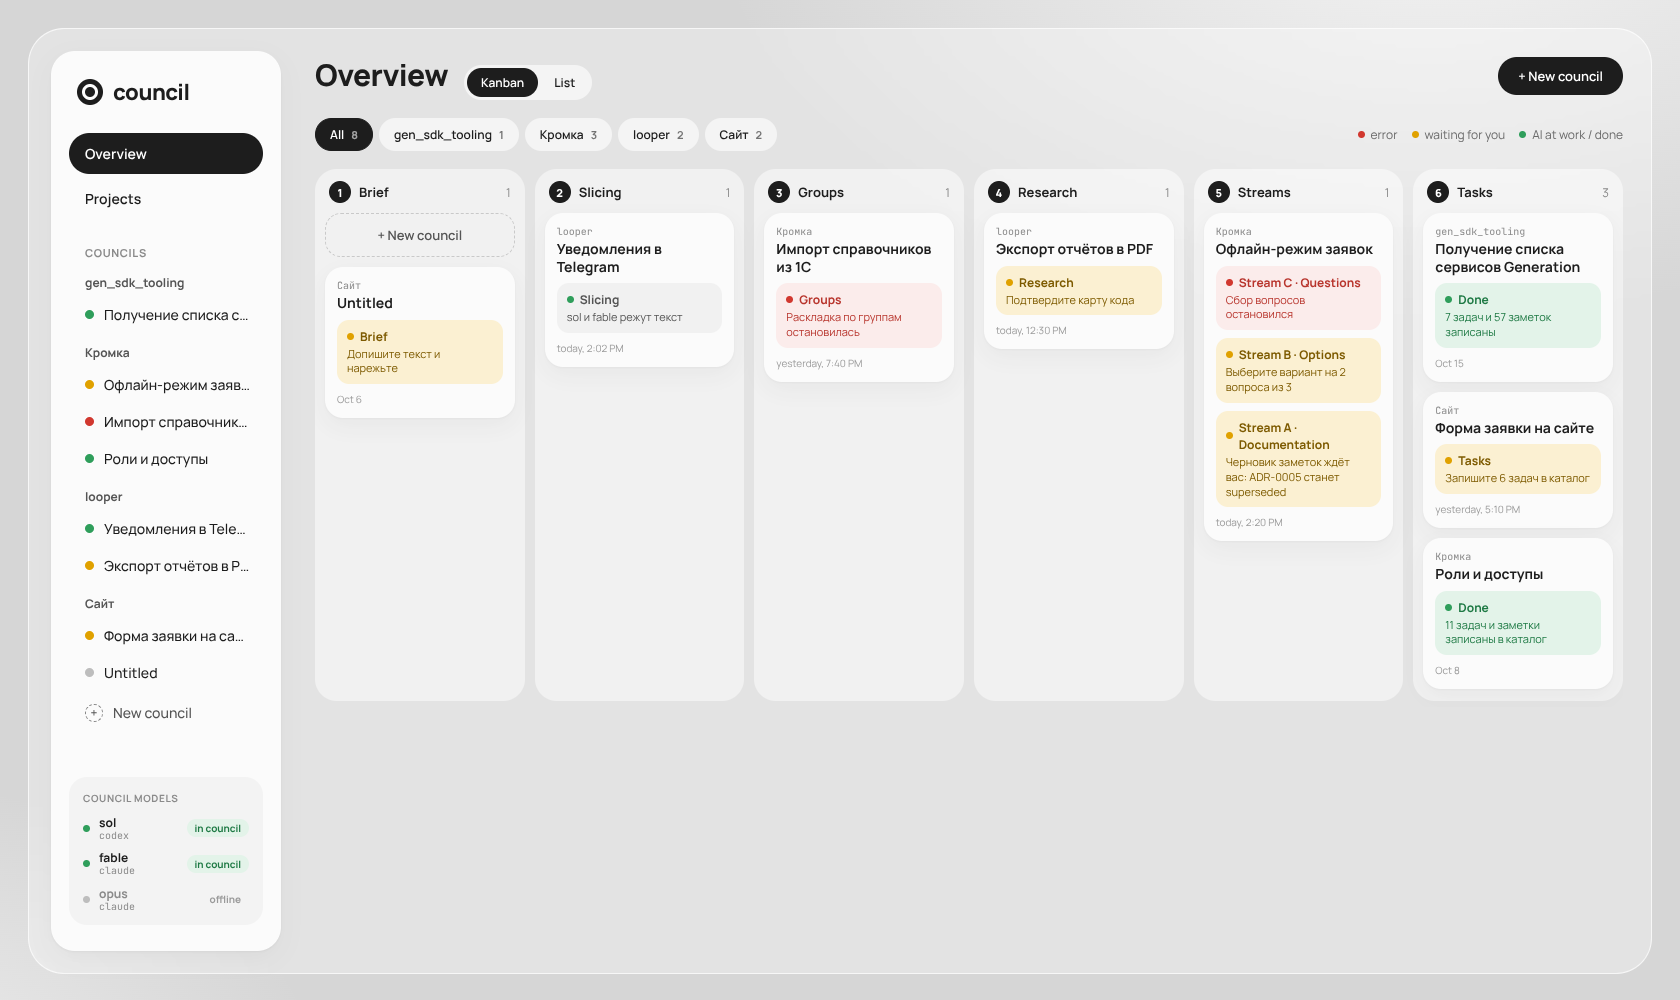
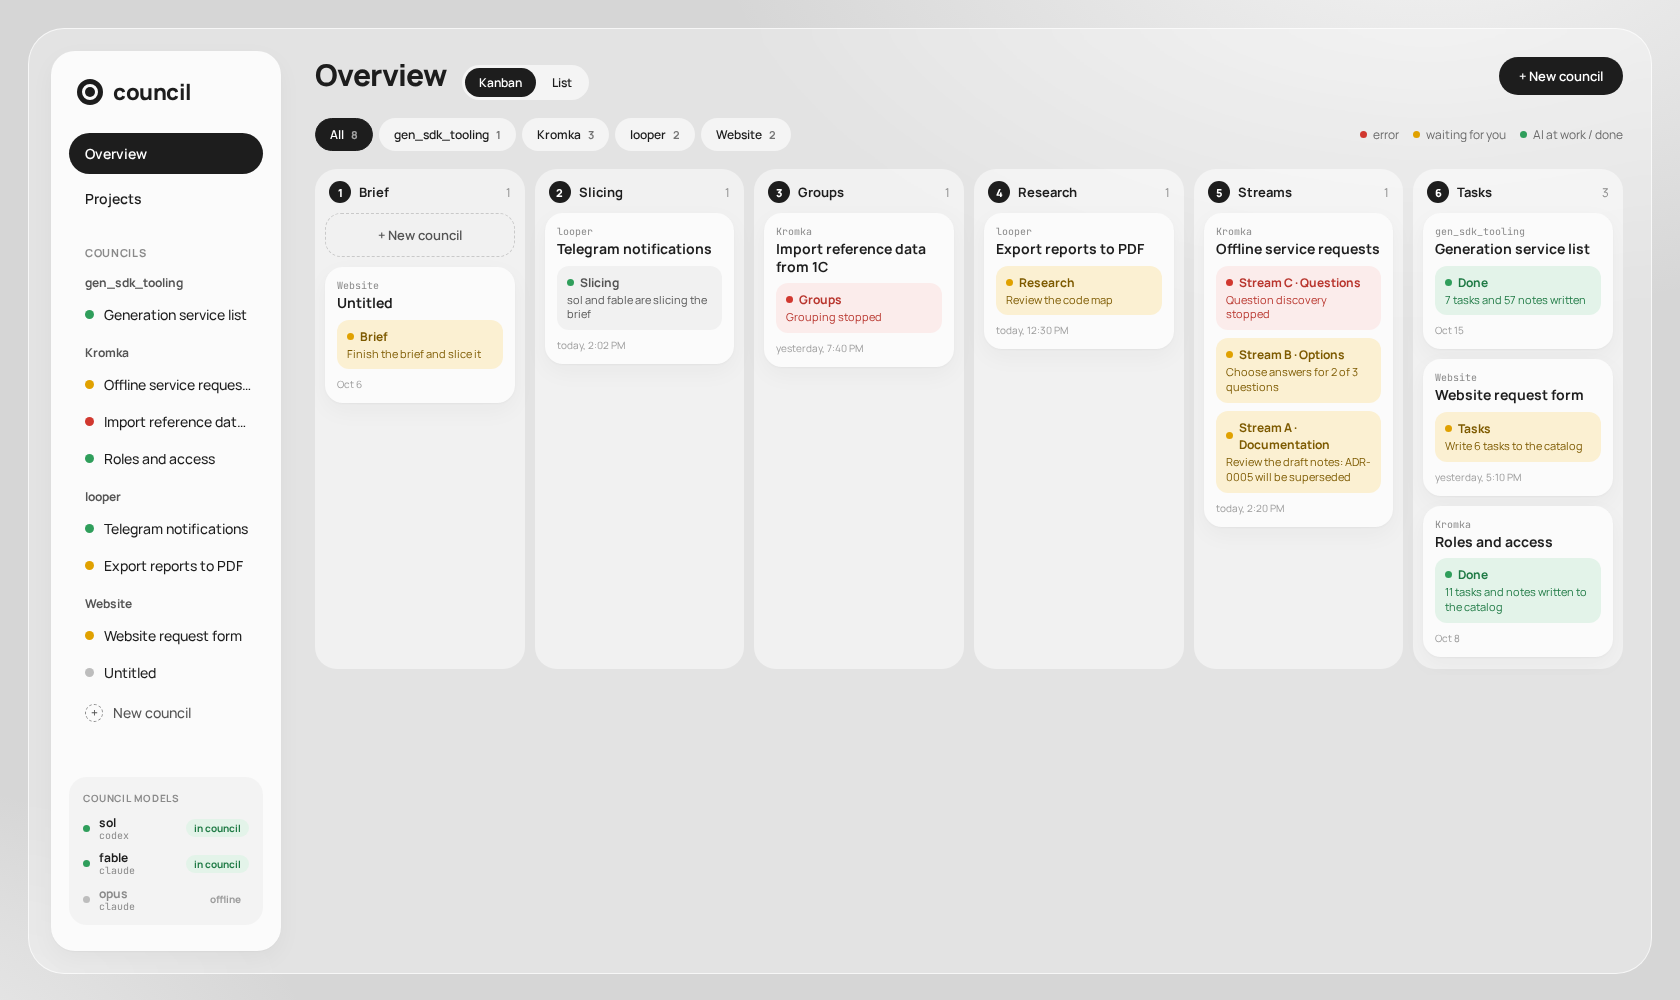
Документация: английские материалы на скриншотах и установка без GitHub-токена

diff --git a/README.md b/README.md
@@ -22,7 +22,7 @@ The application runs locally. Model work goes through the configured providers' 
 
 The six stages are **Brief → Slices → Groups → Research → Streams → Tasks**. Each group becomes a stream with its own review process; the final task plan brings the streams back together.
 
-> Screenshots below show the actual React application using bundled demonstration data. The interface is in English; sample briefs and model responses retain their original Russian text. In a live council, set `COUNCIL_LANGUAGE=English` for English output. Interface language follows your browser.
+> Screenshots show the actual React application with English translations of the bundled sample materials. In a live council, set `COUNCIL_LANGUAGE=English` for English output. Interface language follows your browser.
 
 ### 1. Start with a brief
 
@@ -94,20 +94,7 @@ Install Git, [uv](https://docs.astral.sh/uv/getting-started/installation/), Node
 
 For model work, you need an account with a subscription supported by the Codex or Claude Code CLI. The default council uses both providers; you can configure a council using just one.
 
-The backend depends on [`RusselSand/agent-workers`](https://github.com/RusselSand/agent-workers), a **private repository**. Access to Council Dev alone is not enough to install or build the backend. Ask its owner for access to that dependency before proceeding.
-
-Make sure Git can access it over HTTPS:
-
-```bash
-git ls-remote https://github.com/RusselSand/agent-workers.git
-```
-
-If needed, sign in using Git Credential Manager or [GitHub CLI](https://cli.github.com/):
-
-```bash
-gh auth login
-gh auth setup-git
-```
+The backend depends on the public [`RusselSand/agent-workers`](https://github.com/RusselSand/agent-workers) repository, pinned to a release tag. `uv` downloads it automatically during installation. No GitHub login or repository access token is required.
 
 ### 2. Create your configuration
 
@@ -116,8 +103,6 @@ git clone https://github.com/RusselSand/council-dev.git
 cd council-dev
 cp .env.example .env
 ```
-
-For Docker builds, set `AGENT_WORKERS_TOKEN` in `.env` to a token with read access to the private `agent-workers` repository. Compose passes it as a build secret; it is not stored in the image. The repository owner can issue a fine-grained token scoped to that repository with **Contents: Read-only**. An invited collaborator's fine-grained token cannot access another user's personally owned repository; arrange access with the owner.
 
 On Linux, also set `COUNCIL_UID` and `COUNCIL_GID` to the output of `id -u` and `id -g`. Leave them unset on Windows and macOS.
 
@@ -195,7 +180,7 @@ After dependency changes, use `docker compose up --build -V` to refresh the anon
 <details>
 <summary><strong>Run without Docker</strong></summary>
 
-Follow steps 1–4, omitting Docker and `AGENT_WORKERS_TOKEN`. Local `uv` uses your Git credentials to fetch the private dependency.
+Follow steps 1–4, omitting Docker. Local `uv` fetches the public dependency automatically without GitHub credentials.
 
 Start the backend in one terminal:
 
@@ -248,7 +233,24 @@ Projects hold the settings reused by councils: repositories to research, a docum
 
 Paths shown in Docker are relative to `COUNCIL_REPOS`. Docker mounts that directory with write access for notes and tasks; models research a snapshot of the selected repositories. Use repositories you trust. Without Docker and without `COUNCIL_REPOS`, project paths are absolute.
 
-For optional Figma research, add `FIGMA_TOKEN` to `.env` and restart. Use a personal access token with **File content: Read-only** and access to the design. See the [Russian setup guide](README.ru.md) for token and seat-limit details.
+### Optional Figma research
+
+Create a personal access token from an account that can open the design:
+
+1. In Figma, open your avatar menu → **Settings** → **Security** → **Personal access tokens** → **Generate new token**.
+2. Grant **File content: Read-only** access and select an expiry date.
+3. Copy the token immediately; Figma shows it only once. Add it to the root `.env`:
+
+```dotenv
+FIGMA_TOKEN=your-personal-access-token
+```
+
+4. Restart Compose, or restart the backend if running without Docker.
+5. Open the council's **Research** stage, enter the Figma file link, and start design research.
+
+The token reads files as its owner and uses that account's rate limit. Use an account with a Dev or Full seat for regular research: View and Collab seats have a much smaller allowance, and a scan makes several requests. Check your seat under **Settings → Account**; administrators can check **Admin → People → Seat type**. Renew the token when it expires, replace it in `.env`, and restart the backend. A token cannot grant access to a file its owner cannot open.
+
+Design research is optional; skip it when you do not have a design or suitable Figma access.
 
 ## Configuration
 
@@ -256,7 +258,6 @@ Secrets and local settings live in the root `.env`, which is excluded from Git. 
 
 | Variable | Purpose / default |
 | --- | --- |
-| `AGENT_WORKERS_TOKEN` | Private dependency access for Docker builds. |
 | `COUNCIL_PARTICIPANT_1`, `COUNCIL_PARTICIPANT_2`, `COUNCIL_JUDGE` | Council lineup; see installation step 3. |
 | `COUNCIL_ACCOUNTS` | Model login directory; defaults to `.accounts`. For a direct, non-Docker launch, `COUNCIL_<NAME>_HOME` can override a single model's directory. |
 | `COUNCIL_REPOS` | Existing directory containing project working copies and export folders. |
@@ -267,7 +268,22 @@ Secrets and local settings live in the root `.env`, which is excluded from Git. 
 | `AGENT_TIMEOUT`, `AGENT_IDLE_TIMEOUT` | Total model-turn and CLI inactivity timeouts, in seconds; defaults are 3600 and 900. An explicitly empty value removes the corresponding limit. |
 | `COUNCIL_UID`, `COUNCIL_GID` | Required on Linux for container file ownership; leave unset on Windows/macOS. |
 
-`COUNCIL_NOTES` is obsolete: configure the documentation folder on the project instead. Frontend settings are documented in [`frontend/README.md`](frontend/README.md).
+`COUNCIL_NOTES` is obsolete: configure the documentation folder on the project instead.
+
+### Frontend settings
+
+The default settings work for the standard installation. To override them, create `frontend/.env` using `frontend/.env.example`, or set environment variables before starting Vite.
+
+| Variable | Purpose | Default |
+| --- | --- | --- |
+| `VITE_DATA_SOURCE` | `http` for the backend; `mock` for bundled demonstration data. | `http` |
+| `VITE_API_URL` | API base URL used by the frontend in HTTP mode. | `/api` |
+| `VITE_API_PROXY` | Backend address to which the Vite development server forwards `/api` requests. | `http://localhost:8420` |
+| `VITE_USE_POLLING` | Set to `1` if file changes are not detected, for example with Docker on Windows. | Unset |
+
+Restart the frontend development server after changing these settings. `dev:mock` selects mock mode automatically. The normal production build uses the backend on the same origin; when FastAPI serves the built frontend, `/api` resolves to that server.
+
+The interface supports English and Russian and chooses its language from the browser's language preferences. This is separate from `COUNCIL_LANGUAGE`, which controls generated material, and `COUNCIL_NOTES_LANGUAGE`, which controls exports. Put English first in the browser's preferred languages and reload for an English interface.
 
 ## Data and agent handoff
 
@@ -289,8 +305,7 @@ uv --directory backend run python -m spec_council.notes <notes-directory> valida
 
 | Symptom | Check |
 | --- | --- |
-| Docker build cannot fetch `agent-workers` | Set `AGENT_WORKERS_TOKEN` and verify its read access to the private repository. |
-| Local `uv` cannot fetch the dependency | Confirm that Git is signed in and `git ls-remote` succeeds. |
+| Docker or local `uv` cannot fetch `agent-workers` | Check network access to GitHub. Run `git ls-remote https://github.com/RusselSand/agent-workers.git`; the repository is public and requires no credentials. |
 | A model is not connected | Run `status`; its `--home` directory must match its configured name and account path. |
 | Backend rejects the council configuration | Check the `name=provider/model` format and judge name. Restart after changing `.env`. |
 | Linux permission errors | Set `COUNCIL_UID`/`COUNCIL_GID`, and check ownership of the mounted directories. |
@@ -305,7 +320,6 @@ uv --directory backend run python -m spec_council.notes <notes-directory> valida
 | [`backend/`](backend/) | FastAPI server, council pipeline, prompts, note and task exports. |
 | [`frontend/`](frontend/) | React, TypeScript, and Vite application; HTTP and mock data sources. |
 | [`docs/api-contract.md`](docs/api-contract.md) | Backend/frontend API contract, in Russian. |
-| [`frontend/README.md`](frontend/README.md) | Frontend structure, localization, and screenshot tooling, in Russian. |
 | [`docs/old/arch.md`](docs/old/arch.md) | Earlier architecture notes; frontend sections describe the old UI. |
 | [`docs/screenshots/`](docs/screenshots/) | README screenshots and capture instructions. |
 

diff --git a/README.ru.md b/README.ru.md
@@ -36,22 +36,11 @@ CLAUDE.md                       правила для агента: фронт; 
 - Браузер на этой же машине: через него входят в модели.
 
 ### 2. Доступ к репозиториям
-Оба репозитория приватные: сам `RusselSand/council-dev` и пакет `RusselSand/agent-workers`, от
-которого зависит сервер. Своей учётной записи владельца хватает; другого человека владелец
-приглашает в оба (на GitHub: Settings → Collaborators), и тот принимает приглашения.
+Репозитории `RusselSand/council-dev` и `RusselSand/agent-workers` публичные. Вход в GitHub,
+приглашения и токен доступа не нужны. Сервер использует agent-workers как зависимость: `uv`
+скачивает закреплённый тег автоматически при установке.
 
-Git на машине должен ходить в оба репозитория по HTTPS: зависимость agent-workers uv забирает
-через него. Сначала вход в GitHub:
-- Windows — ничего делать заранее не нужно: Git Credential Manager из Git for Windows сам
-  спросит вход при первом обращении (проверка ниже) и запомнит его;
-- macOS и Linux — через [GitHub CLI](https://cli.github.com/), до проверки: без него git
-  спросит логин и пароль, а пароль GitHub по HTTPS не принимает:
-  ```bash
-  gh auth login
-  gh auth setup-git
-  ```
-
-Проверка — обе команды должны вывести список веток, а не ошибку доступа:
+Проверить доступ по HTTPS:
 ```bash
 git ls-remote https://github.com/RusselSand/council-dev.git
 git ls-remote https://github.com/RusselSand/agent-workers.git
@@ -63,14 +52,6 @@ git clone https://github.com/RusselSand/council-dev.git
 cd council-dev
 cp .env.example .env
 ```
-В `.env` впишите `AGENT_WORKERS_TOKEN` — токен только на чтение agent-workers. Он нужен
-сборке образов, в сами образы не попадает. Выпускает его владелец репозитория: на GitHub —
-Settings → Developer settings → Personal access tokens → Fine-grained tokens → Generate new
-token; Repository access — Only select repositories → `agent-workers`; Permissions →
-Contents: Read-only. Fine-grained токен другого человека к чужому личному репозиторию доступа
-не даст, даже если его пригласили: такой токен ему выпускает и передаёт владелец (или он
-выпускает classic token с правом `repo`, но тот открывает все его репозитории).
-
 На Linux в `.env` нужны ещё `COUNCIL_UID` и `COUNCIL_GID` — вывод `id -u` и `id -g`: иначе
 контейнеры оставят в `.accounts` файлы root. На Windows и macOS их не задают.
 
@@ -104,8 +85,8 @@ uv run --project backend python -m agent_workers login --provider claude --home 
 ```
 Задан в `.env` свой каталог учётных записей `COUNCIL_ACCOUNTS` — входите в него:
 `--home <COUNCIL_ACCOUNTS>/<имя>`, иначе сервер вход не найдёт; без докера у модели со своим
-`COUNCIL_<ИМЯ>_HOME` — в этот каталог. Первый `uv run` ставит зависимости — agent-workers через
-git из шага 2 — и занимает минуту.
+`COUNCIL_<ИМЯ>_HOME` — в этот каталог. Первый `uv run` ставит зависимости — публичный agent-workers через
+git — и занимает минуту.
 Каждая команда открывает браузер: войдите в аккаунт с подпиской (для Codex — «Sign in with
 ChatGPT»). Проверка — та же команда со `status` вместо `login`: покажет вход и расход подписки.
 Подробнее — «Вход в модели».
@@ -143,7 +124,7 @@ Collab Figma даёт 20 запросов в месяц, а исследован
 в Figma: Settings → Account; у админа — Admin → People, колонка Seat type.
 
 ### 7. Без докера
-Шаги 1–5 те же, только докер и `AGENT_WORKERS_TOKEN` не нужны. Дальше — «Запуск» → «Без
+Шаги 1–5 те же, только докер не нужен. Дальше — «Запуск» → «Без
 докера»: две консоли, сервер и фронт. Модели работают через CLI, поставленные в шаге 5.
 
 ### Обновление
@@ -155,11 +136,8 @@ docker compose up --build
 зависимости сервера `uv run` подтянет сам, фронта — `npm --prefix frontend install`.
 
 ### Если что-то не так
-- Сборка падает с «Нет токена agent-workers» — в `.env` рядом с `docker-compose.yml` нет
-  `AGENT_WORKERS_TOKEN`. Падает с ошибкой входа git (Authentication failed, 403) — у токена нет
-  доступа к agent-workers: шаг 3.
-- `uv` не может скачать agent-workers — git не вошёл в GitHub или нет доступа к репозиторию:
-  шаг 2.
+- `uv` или сборка Docker не могут скачать agent-workers — проверьте доступ к GitHub по сети
+  командой из шага 2. Репозиторий публичный, токен и вход в GitHub не нужны.
 - Модель «не подключена» — шаг 5, `status`; имя каталога в `--home` — то же, что у модели в
   `.env`.
 - Сервер не поднимается и пишет про модели — неверная строка в `COUNCIL_PARTICIPANT_*` или
@@ -184,11 +162,6 @@ docker compose up --build
 ```bash
 cp .env.example .env
 ```
-- `AGENT_WORKERS_TOKEN` — токен только на чтение приватного репо agent-workers:
-  fine-grained token с правом Contents: Read только на этот репо (как выпустить —
-  «Установка на новой машине», шаг 3). Он нужен сборке образов: compose берёт его из `.env` и
-  передаёт build secret'ом, в образ токен не попадает. Локальному `uv` токен не нужен: доступ он
-  берёт из git, как и `git clone`.
 - `COUNCIL_PARTICIPANT_1`, `COUNCIL_PARTICIPANT_2`, `COUNCIL_JUDGE` — необязательно: кто в
   совете, см. «Модели совета». Без них — Sol и Fable, судья Fable; `COUNCIL_PARTICIPANT_2=none`
   — участник один.

diff --git a/docs/screenshots/README.md b/docs/screenshots/README.md
@@ -1,38 +1,40 @@
 # README screenshots
 
-These are captures of the React application running in mock mode, with the browser locale set to `en-US`. The sample briefs and model responses retain their original Russian text; interface language and council output language are independent settings.
+These images show the actual React application running in mock mode, with an English interface and English sample materials. They use no provider account, live model run, or private local council data.
 
-No provider account, live model run, or private local council data is used to create these images.
+`english-materials.json` contains translations of the bundled sample text used in these views. The capture script applies them to mock source modules through a temporary Vite plugin before the application renders. It does not edit the application sources, change normal mock mode, translate live council data, or alter the rendered page after loading. The translations cover the README views, rather than the entire demo application.
 
-From the repository root, install the frontend dependencies and Chromium:
+## Reproduce
+
+From the repository root:
 
 ```bash
 npm --prefix frontend ci
 ```
 
-Then, from `frontend/`:
+Install the browser from `frontend/`:
 
 ```bash
 npx playwright install chromium
 ```
 
-Return to the repository root and use the existing screenshot command. For example:
+Return to the repository root:
 
 ```bash
-npm --prefix frontend run shot -- --name readme-options --app /c/c1/streams/B/options --locale en-US --height 1100
+node frontend/scripts/readme-shots.mjs
 ```
 
-Copy the resulting `design/.shots/readme-options-app.png` to `docs/screenshots/options.png`.
+The script writes the PNGs directly to this directory. It waits for fonts, expands task ISS-0026, and checks for browser errors and untranslated Russian text in the captured viewport. If the fixtures change, update the translations and capture again.
+
+For an existing Chromium installation, optionally set `PLAYWRIGHT_CHROMIUM_EXECUTABLE_PATH` to its executable path.
 
 | Image | App route | Viewport |
 | --- | --- | --- |
 | `overview.png` | `/home` | 1680 × 1000 |
 | `slices.png` | `/c/c1/slices` | 1440 × 1100 |
 | `research.png` | `/c/g1/research` | 1440 × 1100 |
-| `options.png` | `/c/c1/streams/B/options` | 1440 × 1100 |
+| `options.png` | `/c/c1/streams/B/options` | 1440 × 1250 |
 | `outcomes.png` | `/c/g1/streams/A/outcomes` | 1440 × 1100 |
-| `tasks.png` | `/c/g1/tasks` | 1440 × 1100 |
-
-For `overview.png`, use a 1680 px wide browser to include every Kanban column. For `tasks.png`, expand the first task (ISS-0026) before capturing; with the existing command, add `--app-click "css:button:has-text(ISS-0026)"`.
+| `tasks.png` | `/c/g1/tasks` | 1440 × 1250 |
 
 Screenshots show the initial viewport rather than the entire page, to keep text readable in GitHub's README view.
